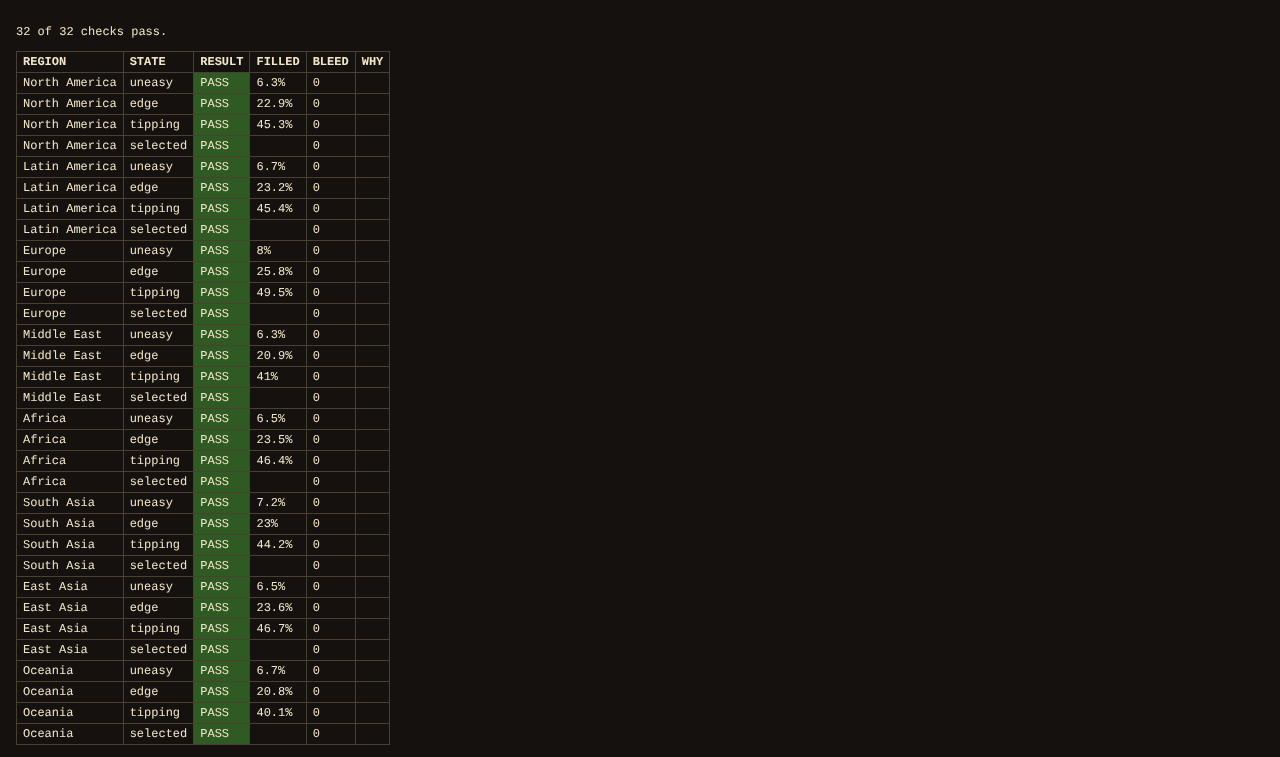
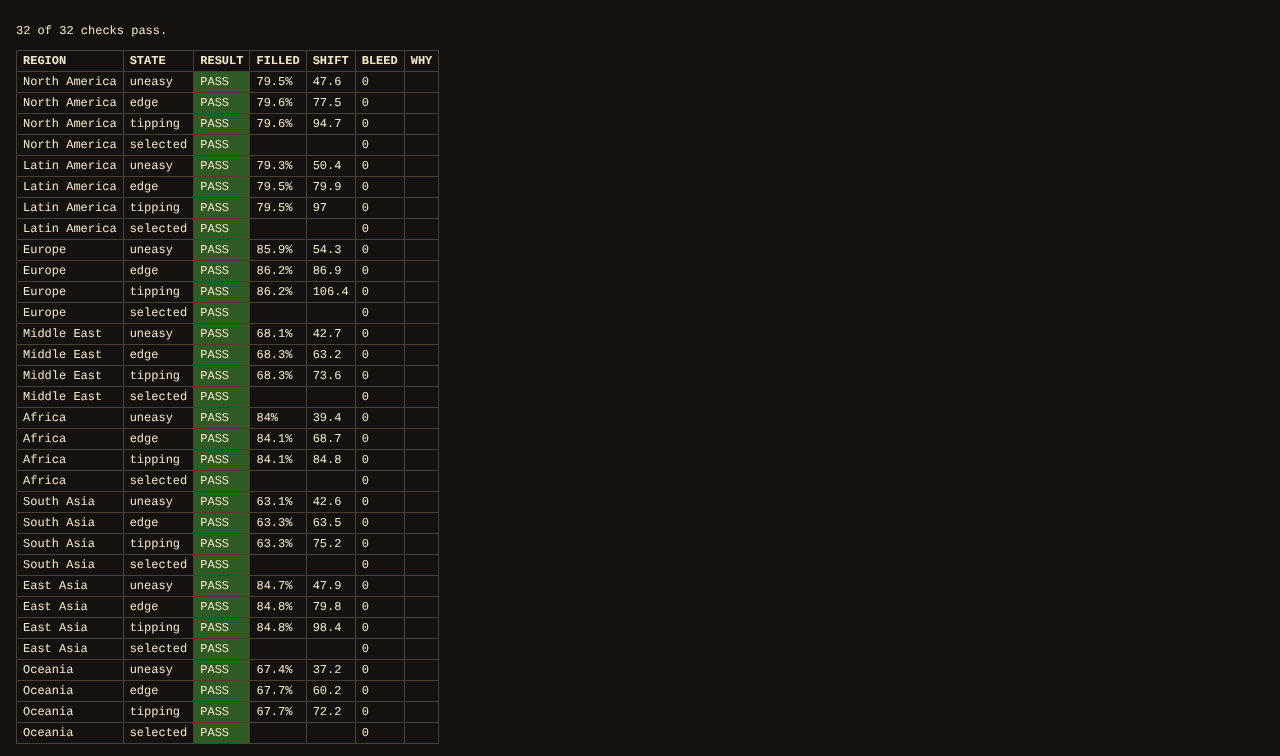
#105 merge #103 heat overlay; crisis-check measures colour shift; #104 addendum
Claude-Session: https://claude.ai/code/session_014LNbEUsUDYain83LhJo9SB

diff --git a/demo/map-crisis-check.html b/demo/map-crisis-check.html
@@ -83,15 +83,16 @@ function checkState(id, state, base) {
   const levels = { ...allAt(10), [id]: state.crisis };
   const { img } = render(levels);
   const box = labelBox(id);
-  let bleed = 0, inside = 0, changed = 0;
+  let bleed = 0, inside = 0, changed = 0, shift = 0;
   const cells = new Set();
   const cellsHit = new Set();
   for (let y = 0; y < MAP_H; y++) for (let x = 0; x < MAP_W; x++) {
     const c = Math.floor(x / CELL), r = Math.floor(y / CELL);
     const mine = regionAtCell(c, r) === id;
     if (mine) { inside++; if (!inBox(box, x, y)) cells.add(`${c},${r}`); } // cells hidden under the label/marker can't show it
-    if (same(px(img, x, y), px(base, x, y))) continue;
-    if (mine) { changed++; cellsHit.add(`${c},${r}`); }
+    const a = px(img, x, y), o = px(base, x, y);
+    if (same(a, o)) continue;
+    if (mine) { changed++; cellsHit.add(`${c},${r}`); shift += Math.hypot(a[0] - o[0], a[1] - o[1], a[2] - o[2]); }
     else if (!inBox(box, x, y)) bleed++;
   }
   // label legibility: the crisis number sits over whatever is under the label line; sample that background
@@ -99,7 +100,9 @@ function checkState(id, state, base) {
   const bg = [];
   for (let x = box.x0; x <= box.x1; x++) bg.push(px(base, Math.max(0, Math.min(MAP_W - 1, x)), Math.max(0, ly)));
   const avg = [0, 1, 2].map((k) => Math.round(bg.reduce((s, p) => s + p[k], 0) / bg.length));
-  return { region: id, state: state.id, changedPct: Math.round((changed / inside) * 1000) / 10, bleedPx: bleed, cellsCovered: cellsHit.size, cells: cells.size, img, labelBg: avg };
+  // strength = mean colour shift (RGB distance) over the region's pixels: whole-region veils (#103) change
+  // nearly every pixel at every level, so 'share of pixels changed' alone can't rank the levels
+  return { region: id, state: state.id, strength: Math.round((shift / inside) * 10) / 10, changedPct: Math.round((changed / inside) * 1000) / 10, bleedPx: bleed, cellsCovered: cellsHit.size, cells: cells.size, img, labelBg: avg };
 }
 
 const results = [];
@@ -116,10 +119,10 @@ for (const r of REGIONS) {
     const fails = [];
     if (c.bleedPx > 0) fails.push(`${c.bleedPx}px drawn outside the region`);
     if (c.cellsCovered < c.cells) fails.push(`${c.cells - c.cellsCovered} of ${c.cells} cells untouched`);
-    if (c.changedPct <= prev) fails.push(`not stronger than the state below (${c.changedPct}% vs ${prev}%)`);
+    if (c.strength <= prev) fails.push(`not stronger than the state below (colour shift ${c.strength} vs ${prev})`);
     if (c.changedPct < 2) fails.push(`barely visible (${c.changedPct}%)`);
-    prev = c.changedPct;
-    results.push({ region: r.id, name: r.name, state: s.id, pass: !fails.length, fails, changedPct: c.changedPct, bleedPx: c.bleedPx, cells: `${c.cellsCovered}/${c.cells}`, labelBg: c.labelBg });
+    prev = c.strength;
+    results.push({ region: r.id, name: r.name, state: s.id, pass: !fails.length, fails, changedPct: c.changedPct, strength: c.strength, bleedPx: c.bleedPx, cells: `${c.cellsCovered}/${c.cells}`, labelBg: c.labelBg });
   }
   // selected outline: drawn only on region edges and inside the region
   const sel = render(allAt(10), { selected: r.id }).img;
@@ -137,7 +140,7 @@ for (const r of REGIONS) {
 }
 render(allAt(10)); // leave the screen on calm
 const passed = results.filter((x) => x.pass).length;
-document.getElementById('out').innerHTML = `<p>${passed} of ${results.length} checks pass.</p><table><tr><th>REGION</th><th>STATE</th><th>RESULT</th><th>FILLED</th><th>BLEED</th><th>WHY</th></tr>${results.map((x) => `<tr><td>${x.name}</td><td>${x.state}</td><td data-ok="${x.pass}">${x.pass ? 'PASS' : 'FAIL'}</td><td>${x.changedPct ?? ''}${x.changedPct != null ? '%' : ''}</td><td>${x.bleedPx}</td><td>${x.fails.join('; ')}</td></tr>`).join('')}</table>`;
+document.getElementById('out').innerHTML = `<p>${passed} of ${results.length} checks pass.</p><table><tr><th>REGION</th><th>STATE</th><th>RESULT</th><th>FILLED</th><th>SHIFT</th><th>BLEED</th><th>WHY</th></tr>${results.map((x) => `<tr><td>${x.name}</td><td>${x.state}</td><td data-ok="${x.pass}">${x.pass ? 'PASS' : 'FAIL'}</td><td>${x.changedPct ?? ''}${x.changedPct != null ? '%' : ''}</td><td>${x.strength ?? ''}</td><td>${x.bleedPx}</td><td>${x.fails.join('; ')}</td></tr>`).join('')}</table>`;
 window.__check = { results, sheets, passed, total: results.length };
 </script>
 </body>

diff --git a/.ballast/reports/t105.md b/.ballast/reports/t105.md
@@ -1,10 +1,11 @@
 STATUS: BLOCKED
-- Blocked on other tickets, not on a person: the redone base layer and heat overlay (board tickets #100 and #103) haven't been merged. The new region borders (#101) and the new markers, name plates and city icons (#102) have landed and are verified in the running game (after-*.png). Nobody needs to do anything by hand. When #100 and #103 merge, this task finishes with one re-run of the in-game check and the after screenshots.
+- Blocked on one ticket, not on a person: the redone base layer (board ticket #100) hasn't been merged, so the land and sea are still the old blocky art. Everything else of the new map has landed and is verified in the running game: region borders (#101), markers, name plates and city icons (#102), and the heat overlay (#103) (after-*.png). Nobody needs to do anything by hand. When #100 merges, this task finishes with one re-run of the in-game check and the after screenshots.
 - Fixed now, because it would have spoiled any new map: the world map was shown at an odd, fractional size (1.07x, about 344 pixels wide even on a 1920-wide screen). Its pixels came out unevenly 1 or 2 screen pixels wide, which shows as seams and shimmer on hand-placed pixel art. The map now always shows at a whole-number size: 2x on 1440x900, 3x on 1920x1080, and 1x on 1280x720, where the side panels leave no room for 2x. #102 had added its own zoom snap that set only the width; with both running, the map stretched and clicks at 3x landed on the wrong region. I kept one sizer that sets width and height together. Every map pixel is the same size on screen.
 - Also fixed: the screen's columns now clear the fixed Pressure and Clients rails (the region panel used to slide under the Clients rail once the map grew). Clicks land on the right region at every size; the frame is drawn outside the map, so it no longer shifts where a click lands.
 - Verified in the running game at three window sizes: whole-number scale, every map column the same width, crisp pixel rendering, and clicking the middle of each of the eight regions selects that region. All pass. Captures: before and after screenshots at the default zoom for each size (whole screen and the map alone), plus the recorded results.
 - Compared against the pixel-earth target: at 2x the map now has the screen room the target's fidelity needs, but the land is still today's blocky 8-pixel art until the base redo lands.
-- To finish: once #100 and #103 are merged, give the region border layer the new base's coastline (it already has a hook for that) and re-run the in-game check for the after shots.
+- To finish: once #100 is merged, give the region border layer the new base's coastline (it already has a hook for that) and re-run the in-game check for the after shots.
+- The crisis-look check from #104 was re-run on the new layers: 32/32, and four of its five findings are now fixed by #103 (addendum in #104's check-table.md). The East Asia strip beside South Asia remains.
 - PR: PR_LINK
 
 ## Questions

diff --git a/.ballast/media/t104/check-table.md b/.ballast/media/t104/check-table.md
@@ -47,3 +47,14 @@ All states are drawn as whole 8x8 cells. On a base with pixel-level coastlines l
 (ffd5a215d5-pixel-earth.png), a cell that is half sea will get state art on its water pixels. The overlays should
 be masked to land pixels. The check will catch this: it counts bleed against region cells, and should be
 tightened to land pixels once the new base exposes a land mask.
+
+## Addendum: re-run after #102 (markers) and #103 (heat overlay) landed
+Re-ran during #105; the state-*.png sheets and check-results.json in this folder are the new run. 32/32 measured
+passes. Strength is now measured as the mean colour shift over the region (whole-region veils change nearly every
+pixel at every level, so "share of pixels changed" no longer ranks them). Europe, for example: uneasy 54, edge 87, tipping 106.
+1. Uneasy reads as texture: **resolved** by #103 (gold rim and veil).
+2. Edge over desert: **resolved** (amber stripes and rim read on sand).
+3. East Asia stripe beside South Asia: **still open** (region hit-area split; red rim stripe east of S.Asia in state-mixed.png).
+4. Tipping buries the terrain: **improved** (crosshatch lets the terrain through); acceptable.
+5. Selected hides Edge: **resolved** (the stripes show through the gold selection).
+New, minor: North America's name plate sits over a city icon (state-mixed.png, left). The plate placement is #102's.
